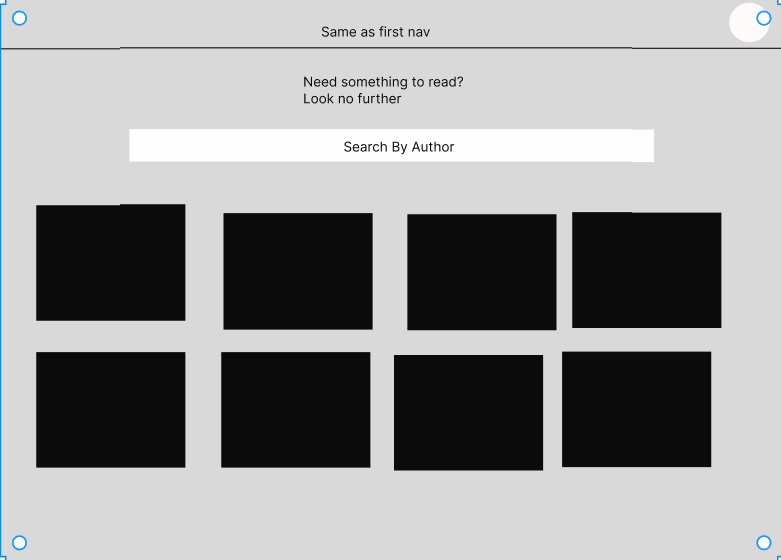
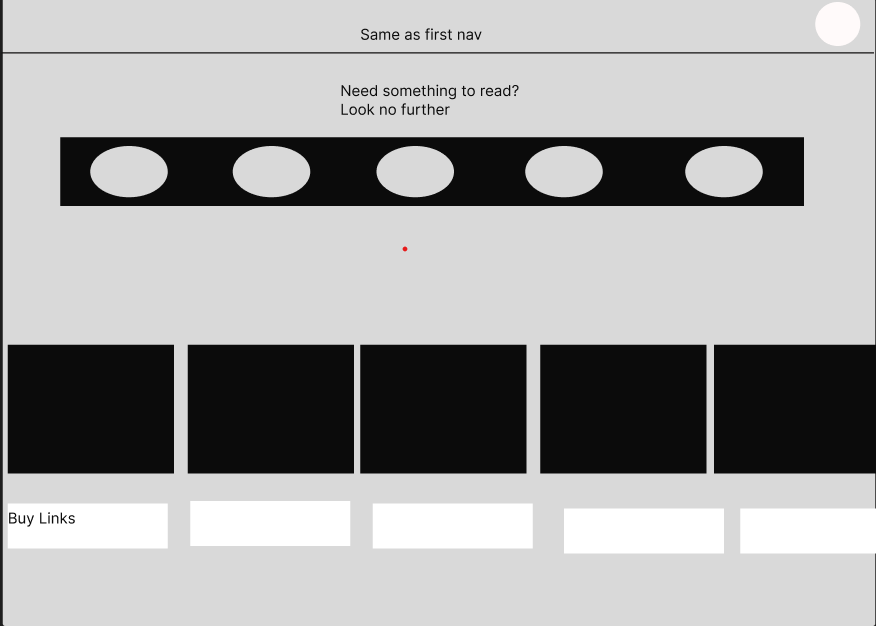
fixes

diff --git a/app/src/components/RenderBooks.jsx b/app/src/components/RenderBooks.jsx
@@ -1,39 +1,41 @@
 import FetchData from '../utils/FetchData';
 import { useState, useEffect } from 'react';
 import BookLayout from './BookLayout';
-import API_KEY from '../../config';
+import BestSellerButtons from './BestSellerButtons';
 
 const RenderBooks = () => {
   const [bestSellers, setBestSellers] = useState([]);
-
-  const fetchBook = async () => {
-  const overviewUrl = await FetchData(`https://api.nytimes.com/svc/books/v3/lists/overview.json?api-key=${API_KEY}`)
-  console.log(overviewUrl)
-  }
-  fetchBook()
+  const [query, setQuery] = useState('Hardcover-Fiction');
 
   useEffect(() => {
     const fetchBestSellers = async () => {
-      const response = await FetchData("http://localhost:4000/hardcover fiction");
+      const response = await FetchData(`http://localhost:4000/${query}`);
       const data = response[0]
       setBestSellers(data);
       console.log(data);
     }
     fetchBestSellers();
-  }, []);
+  }, [query]);
 
+  const handleButtonClick = (key) => {
+    setQuery(key);
+  }
   return (
+    <>
+    <BestSellerButtons buttonClick={handleButtonClick}/>
     <BookLayout booksData={bestSellers}/>
+    </>
   )
 }
 
 export default RenderBooks;
 
 
-
-
-
-
+// const fetchBook = async () => {
+//   const overviewUrl = await FetchData(`https://api.nytimes.com/svc/books/v3/lists/overview.json?api-key=${API_KEY}`)
+//   console.log(overviewUrl)
+//   }
+//   fetchBook()
 
 //   const [booksData, setBooksData] = useState([]);
 

diff --git a/app/src/components/BestSellerButtons.jsx b/app/src/components/BestSellerButtons.jsx
@@ -1,5 +1,24 @@
+const BestSellerButtons = ({buttonClick}) => {
+  
+  const handleButtonClick = (e) => {
+    e.preventDefault();
+    const key = e.target.dataset.key;
+    console.log("Clicked button with key:", key);
+    buttonClick(key)
+  }
 
+  return (
+    <>
+    <button className="buttonLayout" data-key="Hardcover-Fiction" onClick={handleButtonClick}>Hardcover Fiction</button>
+    <button className="buttonLayout" data-key="Hardcover-Nonfiction" onClick={handleButtonClick}>Hardcover NonFiction</button>
+    <button className="buttonLayout" data-key="Series-Books" onClick={handleButtonClick}>Series Books</button>
+    <button className="buttonLayout" data-key="Business-Books" onClick={handleButtonClick}>Business Books</button>
+    <button className="buttonLayout" data-key="Graphic-Books-and-Manga" onClick={handleButtonClick}>Graphic Books and Manga</button>
+    </>
+  )
+}
 
+export default BestSellerButtons;
 
 
 

diff --git a/README.md b/README.md
@@ -44,16 +44,14 @@ This application will use the New York Times API. Below are the documentation an
 The core features of the application include:
 
 - Users can browse through the latest top stories from the New York Times API. They will be presented with a selection of articles covering a variety of topics such as world news, politics, business, technology, and more.
-- Users will be able to use a search text input, it will be by author's name to see all their books: Users have the ability to search for books by a specific author. For each book, users can view details such as the title, author, publication date, summary, and cover image (if available). Users can click on a book to view its reviews.
+- Users will have the option to select from five categories to browse the list of best-selling books. Upon clicking, they will be presented with the top five options from the selected category. The display will include book images, titles, authors, and descriptions, along with buy links. Users can like a book by clicking on the corresponding like button.
 - Users can search for real-time stories. They can filter stories based on three categories of interest, such as politics, sports, and entertainment. The application will display a list of approximately 50 latest stories matching the selected categories.
 
 ## 🤔 Stretch User Stories
 
 If time permits, the following stretch features will be implemented in order of priority:
 
-- Users will need to log in to use this application
 - Users will be able to choose between light and dark mode
-- Users will be able to rate the article (like button will go up)
 
 ## 📆 Timeline for reaching MVP in 1 week
 
@@ -66,18 +64,18 @@ To ensure that we can complete all core features of the application in 1 week, w
 - [x] Define routes for top stories, book search, and real-time stories - Due by end of day
 - [x] Test navigation between pages to ensure proper routing functionality - Due by end of day
 - [x] Implement fetching and displaying of top stories from New York Times API - Due by end of day
-- [] Implement search functionality by author for fetching books from New York Times API - Due by end of day
+- [] Implement search functionality by categories from JSON file - Due by end of day
 
 ### Day 2
 
 - [] Implement fetching and displaying of real-time stories based on category from New York Times API - Due by end of day
 - [] Make the control form
-- [] It renders correctly
+- [x] It renders correctly
 
 ### Day 3
 
 <!-- add basic styling so that your functionality looks ok -->
-
+- [] Make Context for books page (like buttons) - Due by end of day
 - [] Design basic layout for displaying top stories - Due by end of day
 - [] Design layout for displaying books search results - Due by end of day
 - [] Design layout for displaying real-time stories - Due by end of day
